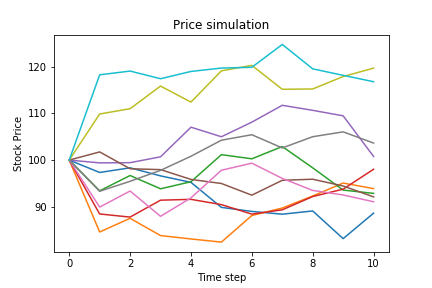
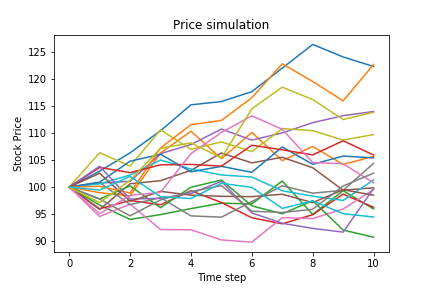
update readme and fix simulation

diff --git a/monteCarlo/main.py b/monteCarlo/main.py
@@ -1,7 +1,7 @@
 from MonteCarlo import MonteCarlo
 
 if __name__ == "__main__":
-    sample_size = 250
+    sample_size = 2500
     time_steps = 10
     initial_price = 100
     r = 0.02
@@ -16,10 +16,10 @@ if __name__ == "__main__":
 
     print("--- Asian Call: " + str(simulator.europeanDerivatives["asianCall"].price), simulator.europeanDerivatives["asianCall"].confidence)
     print("--- Asian Put: " + str(simulator.europeanDerivatives["asianPut"].price), simulator.europeanDerivatives["asianPut"].confidence)
-    print("--- Lookback Call: " + str(simulator.europeanDerivatives["floatingLookbackCall"].price), simulator.europeanDerivatives["floatingLookbackCall"].confidence)
-    print("--- Lookback Put: " + str(simulator.europeanDerivatives["floatingLookbackPut"].price), simulator.europeanDerivatives["floatingLookbackPut"].confidence)
-    print("--- Floating Lookback Call: " + str(simulator.europeanDerivatives["lookbackCall"].price), simulator.europeanDerivatives["lookbackCall"].confidence)
-    print("--- Floating Lookback Put: " + str(simulator.europeanDerivatives["lookbackPut"].price), simulator.europeanDerivatives["lookbackPut"].confidence)
+    print("--- Lookback Call: " + str(simulator.europeanDerivatives["lookbackCall"].price), simulator.europeanDerivatives["floatingLookbackCall"].confidence)
+    print("--- Lookback Put: " + str(simulator.europeanDerivatives["lookbackPut"].price), simulator.europeanDerivatives["floatingLookbackPut"].confidence)
+    print("--- Floating Lookback Call: " + str(simulator.europeanDerivatives["floatingLookbackCall"].price), simulator.europeanDerivatives["lookbackCall"].confidence)
+    print("--- Floating Lookback Put: " + str(simulator.europeanDerivatives["floatingLookbackPut"].price), simulator.europeanDerivatives["lookbackPut"].confidence)
     
      # 1. b)
     print("---------------------")

diff --git a/derivatives/EuropeanDerivative.py b/derivatives/EuropeanDerivative.py
@@ -11,19 +11,19 @@ class EuropeanDerivative():
         self.maturity_duration = maturity_duration
         self.delta_t = maturity_duration/time_steps
         self.strike_price = strike_price
-        self.num_plot_samples = 10
-        self.prices = np.ones((self.num_plot_samples,time_steps+1))*initial_price
+        #self.num_plot_samples = 10
+        #self.prices = np.ones((self.num_plot_samples,time_steps+1))*initial_price
         self.cumulative_payoff = 0
         self.payoffs = []
         return
 
-    def simulatePrice(self, previous_simulated_price, sample_id,t):
-        Z = np.random.standard_normal()
-        exponent = (self.r - self.sigma**2/2)*self.delta_t + self.sigma*np.sqrt(self.delta_t)*Z
-        simulated_price = previous_simulated_price*np.exp(exponent)
-        if sample_id < self.num_plot_samples:
-            self.prices[sample_id,t+1] = simulated_price
-        return simulated_price
+    #def simulatePrice(self, previous_simulated_price, sample_id,t):
+        #Z = np.random.standard_normal()
+        #exponent = (self.r - self.sigma**2/2)*self.delta_t + self.sigma*np.sqrt(self.delta_t)*Z
+        #simulated_price = previous_simulated_price*np.exp(exponent)
+        #if sample_id < self.num_plot_samples:
+        #    self.prices[sample_id,t+1] = simulated_price
+        #return simulated_price
     
     def getPayoff(self, min, max, final, strike, average):
         pass

diff --git a/monteCarlo/MonteCarlo.py b/monteCarlo/MonteCarlo.py
@@ -47,6 +47,7 @@ class MonteCarlo():
                 current_min = float('inf')
                 cumulative_price = 0
                 average_price = 0
+                self.americanAsset.previous_price = self.americanAsset.initial_price
                 found_optimal_stopping_time = False
                 for j in range(self.time_steps):
                     if found_optimal_stopping_time: break
@@ -88,12 +89,12 @@ class MonteCarlo():
         return
 
     def getEuropeanPrices(self):
-        
         for i in range(self.sample_size):
             current_max = float('-inf')
             current_min = float('inf')
             cumulative_price = 0
             average_price = 0
+            self.europeanAsset.previous_price = self.europeanAsset.initial_price
             for j in range(self.time_steps):
                 # Get simulated stock price
                 simulated_price = self.europeanAsset.simulatePrice(i, j)
@@ -107,6 +108,7 @@ class MonteCarlo():
                 payoff = derivative.getPayoff(current_min, current_max, simulated_price, self.strike_price, average_price)
                 derivative.payoffs = np.append(derivative.payoffs, payoff)
                 derivative.cumulative_payoff += payoff
+                
         self.europeanAsset.plotPrices()
 
         for derivative in self.europeanDerivatives.values():

diff --git a/derivatives/Asset.py b/derivatives/Asset.py
@@ -8,7 +8,7 @@ class Asset():
         self.sigma = sigma
         self.price = initial_price
         self.previous_price = initial_price
-        self.num_plot_samples = 10
+        self.num_plot_samples = 20
         self.time_steps = time_steps
         self.prices = np.ones((self.num_plot_samples, self.time_steps+1))*initial_price
         self.maturity_duration = maturity_duration

diff --git a/derivatives/FloatingLookbackCall.py b/derivatives/FloatingLookbackCall.py
@@ -4,6 +4,6 @@ import matplotlib.pyplot as plt
 
 class FloatingLookbackCall(EuropeanDerivative):
     def getPayoff(self, min, max, final, strike, average):
-        payoff = np.max([0, final-min])
+        payoff = np.max([0, max-final])
         return payoff
 

diff --git a/derivatives/FloatingLookbackPut.py b/derivatives/FloatingLookbackPut.py
@@ -4,6 +4,6 @@ import matplotlib.pyplot as plt
 
 class FloatingLookbackPut(EuropeanDerivative):
     def getPayoff(self, min, max, final, strike, average):
-        payoff = np.max([0, max-final])
+        payoff = np.max([0, final-min])
         return payoff
 

diff --git a/derivatives/AsianCall.py b/derivatives/AsianCall.py
@@ -5,4 +5,5 @@ import matplotlib.pyplot as plt
 class AsianCall(EuropeanDerivative):
     def getPayoff(self, min, max, final, strike, average):
         payoff = np.max([0, average - strike])
+        #print(payoff)
         return payoff

diff --git a/README.md b/README.md
@@ -1,2 +1,12 @@
 # aps1022-week1project
 Use Monte Carlo Simulation and Lattices to price financial derivatives.
+
+# Instructions:
+Monte Carlo Simulation:
+ - Run "python main.py" from the monteCarlo folder
+ - Outputs price and 95% confidence range for each european option and American Put
+ - Generates price simulation graphs as "european_prices.png" and "american_prices.png"
+ - Parameters can be changed in main.py
+
+Lattice approach:
+ - 
